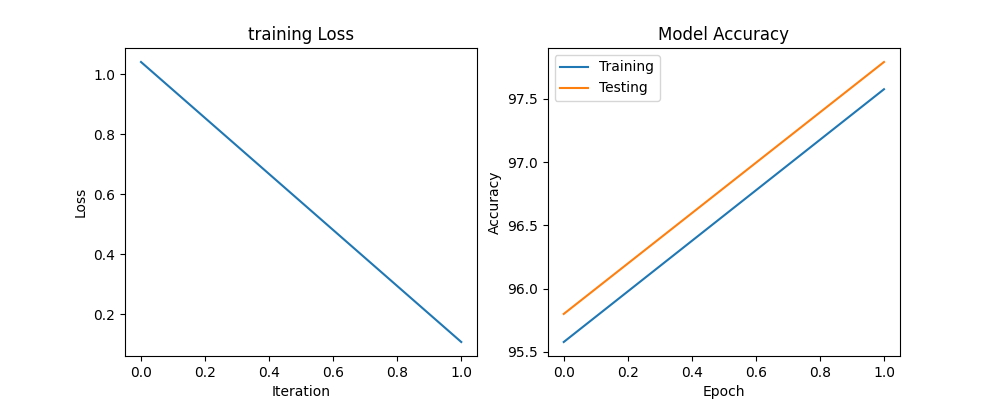
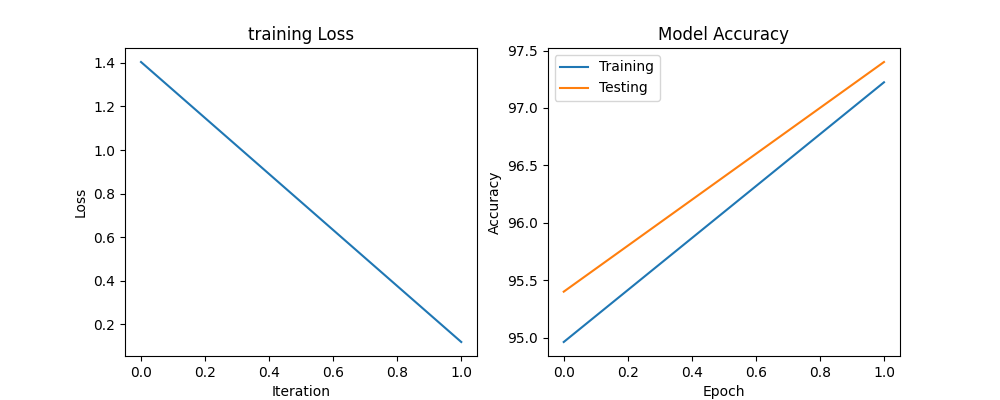
Added figure to report

diff --git a/run.py b/run.py
@@ -1,16 +1,13 @@
-import argparse
+# Custon Utilities 
 from utilities import ConvNet, track_accuracy, training, plot
 
-# TODO: Try to move the code that requires these to utilities.py
+# Libraries needed to set up main run
 import torch
 import torch.nn as nn
 import torch.optim as optim
 import torchvision
 import torchvision.transforms as transforms
-import matplotlib.pyplot as plt
-from tqdm import tqdm
-import numpy as np
-
+import argparse
 
 def main():
     # Device configuration (use GPU if available)

diff --git a/README.md b/README.md
@@ -1,6 +1,47 @@
 # module08_pytorch_mnist
 
-## Getting the Code to Run
+## Report
+
+This assignment demonstrates successful ability to import Module 7's assignment from a Google Colab environemnt into a GitHub development space.
+
+The development environment of GitHub/Git/VSCode is a popular development environment that allows for seamless collaboration between AI engineers. VSCode is a customizable, versatile environment with a strong community, and is commonly used in team-based object oriented developemnt environemnts. Git allows for version control, allowing developers to track changes, and collaborate efficiently, specifically using multiple branches to push individual changes into a main branch. GitHub Codespaces integrates VSCode and Git into a cloud-cased environment, where users can connect with a variety of computing resources, including JHU's Rockfish,
+to efficiently link remote computing resources with the user's development environment. 
+
+To execute this assignment, our team created GitHub accounts, and utilized the above resources to create a collaborative environment to execute Module 7's code. Module 7 code was adapted to fit into two files: a "run.py" file, which handles the main run and argument definition, and a "utilities.py" file, which defines the "ConvNet" class, and functions to train the convolutional network on MNIST data. The "utilities" file largely remains the same between Module 7 and Module 8. The "run.py" file contains modification to utilize the "args" approach for object oriented code execution, replacing hyperparameters with "args" that can be defined in the terminal. 
+
+As the "CodeSpaces" environment is used, versions of PyTorch and related libraries can simply be imported, rather than downloading each library to our local computers. In addition, since the "CodeSpaces" environment only utilizes CPU, training took longer than the google colab training, which used T4 GPU resources. This can be mitigated in the future by simply connecting to either Google Cloud GPU remote sessions, or connecting to RockFish to utilize GPU nodes. 
+
+The below text shows the resultant output from running the run.py file. This text shows similar output to the output exhibited in Module 7's PyTorch execution, demonstrating seamless integration between google colab and GitHub development environemnts.  
+
+@blink4535743jhu ➜ /workspaces/module08_pytorch_mnist (branch1) $ python run.py
+100%|██████████████████████████████████████████████████████████████████████████████████████████████████████████████████████████████████████████████████████████████████████| 9.91M/9.91M [00:00<00:00, 23.3MB/s]
+100%|███████████████████████████████████████████████████████████████████████████████████████████████████████████████████████████████████████████████████████████████████████| 28.9k/28.9k [00:00<00:00, 562kB/s]
+100%|██████████████████████████████████████████████████████████████████████████████████████████████████████████████████████████████████████████████████████████████████████| 1.65M/1.65M [00:00<00:00, 5.26MB/s]
+100%|██████████████████████████████████████████████████████████████████████████████████████████████████████████████████████████████████████████████████████████████████████| 4.54k/4.54k [00:00<00:00, 22.8MB/s]
+ConvNet(
+  (layer1): Sequential(
+    (0): Conv2d(1, 32, kernel_size=(5, 5), stride=(1, 1), padding=(2, 2))
+    (1): BatchNorm2d(32, eps=1e-05, momentum=0.1, affine=True, track_running_stats=True)
+    (2): ReLU()
+    (3): MaxPool2d(kernel_size=2, stride=2, padding=0, dilation=1, ceil_mode=False)
+  )
+  (layer2): Sequential(
+    (0): Conv2d(32, 64, kernel_size=(5, 5), stride=(1, 1), padding=(2, 2))
+    (1): BatchNorm2d(64, eps=1e-05, momentum=0.1, affine=True, track_running_stats=True)
+    (2): ReLU()
+    (3): MaxPool2d(kernel_size=2, stride=2, padding=0, dilation=1, ceil_mode=False)
+  )
+  (fc1): Linear(in_features=3136, out_features=1000, bias=True)
+  (fc2): Linear(in_features=1000, out_features=10, bias=True)
+)
+Training: 001/2: 100%|████████████████████████████████████████████████████████| 60/60 [01:42<00:00,  1.71s/it, loss=1.076835]
+Training: 002/2: 100%|████████████████████████████████████████████████████████| 60/60 [01:34<00:00,  1.58s/it, loss=0.102564]
+
+![ Alt Text](figure.png)
+
+
+
+## Installation Instructions
 
 To make sure you have included all key dependencies, run the following command before running training the model. This should work if you are using github codespaces, as it only installs any additional requirements that are not already in the environment by default.
 
